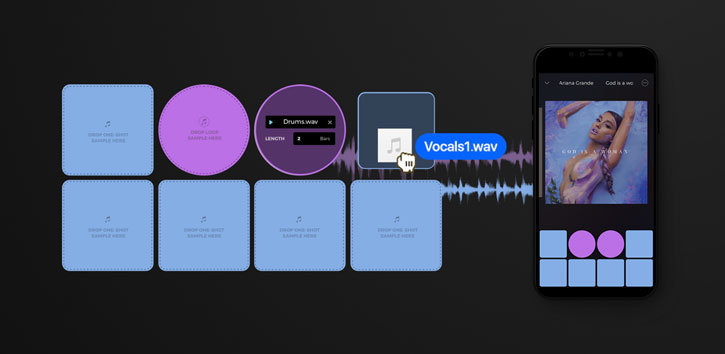
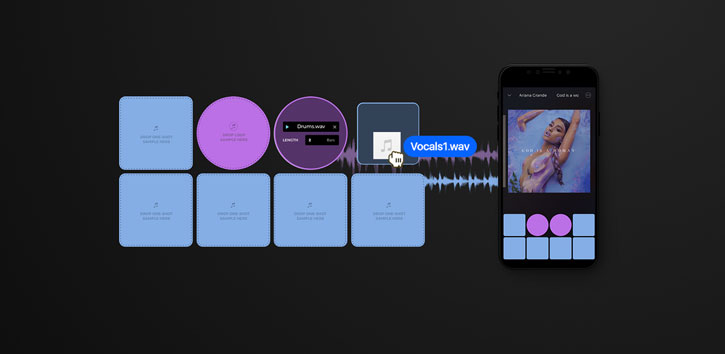
reworked some jammer mocks

Changed region(s): [[0.0607, 0.1243, 0.9103, 0.839]]

diff --git a/index.html b/index.html
@@ -55,7 +55,7 @@
         <div id="description">
           <p class="home_description">Casey Marie Crowe</p>
           <p class="home_biline"><i>Product Designer</i></p>
-          <p class="bio">I help companies build quality software and strong visual identities.</p>
+          <p class="bio">I build quality software and strong brand identities.</p>
           <p class="subheader">Skills:</p>
           <p class="work_tags">design</p>
           <p class="work_tags">UX</p>
@@ -81,32 +81,32 @@
         </br>
         </br>
         <p class="subheader">Work & Experience</p>
-        <div class="work">
+        <div class="work jammer_section">
           <img class="logo_header" src="images/work/digital_products/jammer_small.svg"/>
           <div class="work_info">
             <p class="work_title"><a target="_blank" class="clickable js-animate-color" href="https://www.jammerapp.com">Jammer / Keezy Corp.</a></p>
             <p class="work_description">Lead Product Designer 2018 - 2019</p>
             <p class="work_description">Jammer is a mobile music platform with a big innovation: songs are no longer fixed tracks, but interactive experiences that you can play, remix, record and share. Their flagship app allowed users to play songs like an instrument, with each button triggering parts of the song. My time there included helping the company continue to ship new features for their iOS app, as well as creating a new Artist Portal and Jammer Board Maker for users. On top of product design, I also helped other departments with their needs such as branding and marketing collateral for new music releases and promotions. Jammer featured music by major label artists such as Ariana Grande, Kanye West, Chance the Rapper, and Justin Bieber.</p>
             <p class="work_tags">Product Design</p>
+            <p class="work_tags">Product Strategy</p>
             <p class="work_tags">Art Direction & Branding</p>
-            <p class="work_tags">Print Production</p>
           </div>
           <img class="work_image image_sets" src="images/work/digital_products/jammer_4.jpg" srcset="images/work/digital_products/jammer_4.jpg 1x, images/work/digital_products/jammer_4@2x.jpg 2x"/>
           <br/>
           <br/>
           <p class="subheader_b">Product Initiatives</p>
           <p class="work_description">Projects were mainly centered around early stage user growth and retention. Some projects I led were introducing a recording feature to the iOS apps, and a social graph that allowed users to connect with and browse their friend's shared recordings. Other smaller projects included improving the marketplace experience for purchasing Jammer Boards, and major usability updates to the search and browse UX.</p>
+          <img class="work_image image_sets" src="images/work/digital_products/jammer_11.jpg" srcset="images/work/digital_products/jammer_11.jpg 1x, images/work/digital_products/jammer_11@2x.jpg 2x"/>
           <img class="work_image image_sets" src="images/work/digital_products/jammer_1.jpg" srcset="images/work/digital_products/jammer_1.jpg 1x, images/work/digital_products/jammer_1@2x.jpg 2x"/>
           <img class="work_image image_sets" src="images/work/digital_products/jammer_2.jpg" srcset="images/work/digital_products/jammer_2.jpg 1x, images/work/digital_products/jammer_2@2x.jpg 2x"/>
-          <img class="work_image image_sets" src="images/work/digital_products/jammer_5.jpg" srcset="images/work/digital_products/jammer_5.jpg 1x, images/work/digital_products/jammer_5@2x.jpg 2x"/>
-          <img class="work_image image_sets" src="images/work/digital_products/jammer_10.jpg" srcset="images/work/digital_products/jammer_10.jpg 1x, images/work/digital_products/jammer_10@2x.jpg 2x"/>
           <p class="subheader_b">Jammer Studio / Artist Portal:</p>
           <p class="work_description">Another big problem to solve was getting more music on Jammer.  I led efforts to research and build a consumer facing Artist Portal–a web and mobile product that would allow musicians to make and publish their own Jammer Boards (a process that was initially done as a white glove service.) We tested extensively with artists already on the platform as well as new users. A big challenge here was to meet all the techincal features pro artists wanted, while also making it incredibly easy for amateur musicians to use.</p>
-          <img class="work_image image_sets" src="images/work/digital_products/jammer_6.jpg" srcset="images/work/digital_products/jammer_6.jpg 1x, images/work/digital_products/jammer_6@2x.jpg 2x"/>
-          <img class="work_image image_sets" src="images/work/digital_products/jammer_9.jpg" srcset="images/work/digital_products/jammer_9.jpg 1x, images/work/digital_products/jammer_9@2x.jpg 2x"/>
+          <img class="work_image image_sets_no_margins" src="images/work/digital_products/jammer_5.jpg" srcset="images/work/digital_products/jammer_5.jpg 1x, images/work/digital_products/jammer_5@2x.jpg 2x"/>
+          <img class="work_image image_sets_no_margins" src="images/work/digital_products/jammer_10.jpg" srcset="images/work/digital_products/jammer_10.jpg 1x, images/work/digital_products/jammer_10@2x.jpg 2x"/>
+          <img class="work_image image_sets_no_margins" src="images/work/digital_products/jammer_6.jpg" srcset="images/work/digital_products/jammer_6.jpg 1x, images/work/digital_products/jammer_6@2x.jpg 2x"/>
           <img class="work_image image_sets" src="images/work/digital_products/jammer_8.jpg" srcset="images/work/digital_products/jammer_8.jpg 1x, images/work/digital_products/jammer_8@2x.jpg 2x"/>
         </div>
-        <div class="work">
+        <div class="work kiyo_section">
           <img class="logo_header" src="images/work/digital_products/kiyo_small.svg"/>
           <div class="work_info">
             <p class="work_title"><a target="_blank" class="clickable js-animate-color" href="https://www.producthunt.com/posts/kiyo">Kiyo / List App</a></p>
@@ -119,13 +119,10 @@
           <img class="work_image image_sets" src="images/work/digital_products/kiyo_3.jpg" srcset="images/work/digital_products/kiyo_3.jpg 1x, images/work/digital_products/kiyo_3@2x.jpg 2x"/>
           <img class="work_image image_sets" src="images/work/digital_products/kiyo_8.jpg" srcset="images/work/digital_products/kiyo_8.jpg 1x, images/work/digital_products/kiyo_8@2x.jpg 2x"/>
           <img class="work_image image_sets" src="images/work/digital_products/kiyo_1.jpg" srcset="images/work/digital_products/kiyo_1.jpg 1x, images/work/digital_products/kiyo_1@2x.jpg 2x"/>
-          <img class="work_image image_sets" src="images/work/digital_products/kiyo_2.jpg" srcset="images/work/digital_products/kiyo_2.jpg 1x, images/work/digital_products/kiyo_2@2x.jpg 2x"/>
-          <img class="work_image image_sets" src="images/work/digital_products/kiyo_5.jpg" srcset="images/work/digital_products/kiyo_5.jpg 1x, images/work/digital_products/kiyo_5@2x.jpg 2x"/>
           <img class="work_image image_sets" src="images/work/digital_products/kiyo_4.jpg" srcset="images/work/digital_products/kiyo_4.jpg 1x, images/work/digital_products/kiyo_4@2x.jpg 2x"/>
           <img class="work_image image_sets" src="images/work/digital_products/kiyo_7.jpg" srcset="images/work/digital_products/kiyo_7.jpg 1x, images/work/digital_products/kiyo_7@2x.jpg 2x"/>
-          <img class="work_image image_sets" src="images/work/digital_products/kiyo_6.jpg" srcset="images/work/digital_products/kiyo_6.jpg 1x, images/work/digital_products/kiyo_6@2x.jpg 2x"/>
         </div>
-        <div class="work">
+        <div class="work fundera_section">
           <img class="logo_header" src="images/work/digital_products/fundera_small.svg"/>
           <div class="work_info">
             <p class="work_title"><a target="_blank" class="clickable js-animate-color" href="https://www.fundera.com">Fundera</a></p>
@@ -141,7 +138,7 @@
           <img class="work_image image_sets" src="images/work/digital_products/fundera_3.jpg" srcset="images/work/digital_products/fundera_3.jpg 1x, images/work/digital_products/fundera_3@2x.jpg 2x"/>
           <img class="work_image image_sets" src="images/work/digital_products/fundera_4.jpg" srcset="images/work/digital_products/fundera_4.jpg 1x, images/work/digital_products/fundera_4@2x.jpg 2x"/>
         </div>
-        <div class="work">
+        <div class="work groupme_section">
           <img class="logo_header" src="images/work/digital_products/groupme_small.svg"/>
           <div class="work_info">
             <p class="work_title"><a target="_blank" class="clickable js-animate-color" href="https://www.groupme.com">GroupMe</a></p>
@@ -156,7 +153,7 @@
           <img class="work_image image_sets" src="images/work/digital_products/groupme_1.jpg" srcset="images/work/digital_products/groupme_1.jpg 1x, images/work/digital_products/groupme_1@2x.jpg 2x"/>
           <img class="work_image image_sets" src="images/work/digital_products/groupme_3.jpg" srcset="images/work/digital_products/groupme_3.jpg 1x, images/work/digital_products/groupme_3@2x.jpg 2x"/>
         </div>
-        <div class="work">
+        <div class="work skype_section">
           <img class="logo_header" src="images/work/digital_products/skype_small.png"/>
           <div class="work_info">
             <p class="work_title"><a target="_blank" class="clickable js-animate-color" href="https://skype.com">Skype</a></p>
@@ -168,7 +165,7 @@
           <img class="work_image image_sets" src="images/work/digital_products/skype_1.jpg" srcset="images/work/digital_products/skype_1.jpg 1x, images/work/digital_products/skype_1@2x.jpg 2x"/>
           <img class="work_image image_sets" src="images/work/digital_products/skype_2.jpg" srcset="images/work/digital_products/skype_2.jpg 1x, images/work/digital_products/skype_2@2x.jpg 2x"/>
         </div>
-        <div class="work">
+        <div class="work experiences_section">
           <img class="logo_header experiences_small" src="images/work/digital_products/experiences_small.png" srcset="images/work/digital_products/experiences_small.png 1x, images/work/digital_products/experiences_small@2x.png 2x"/>
           <div class="work_info">
             <p class="work_title"><a target="_blank" class="clickable js-animate-color" href="https://techcrunch.com/2012/07/10/groupme-branches-out-into-group-buying-launches-new-experiences-service-into-beta/">Experiences by GroupMe</a></p>
@@ -183,7 +180,7 @@
           <img class="work_image image_sets" src="images/work/digital_products/experiences_2.jpg" srcset="images/work/digital_products/experiences_2.jpg 1x, images/work/digital_products/experiences_2@2x.jpg 2x"/>
           <img class="work_image image_sets" src="images/work/digital_products/experiences_5.jpg" srcset="images/work/digital_products/experiences_5.jpg 1x, images/work/digital_products/experiences_5@2x.jpg 2x"/>
         </div>
-        <div class="work">
+        <div class="work collegehumor_section">
           <img class="logo_header" src="images/work/digital_products/ch_small.svg"/>
           <div class="work_info">
             <p class="work_title"><a target="_blank" class="clickable js-animate-color" href="https://www.collegehumor.com">CollegeHumor</a></p>
@@ -241,8 +238,6 @@
           <img class="work_image image_sets" src="images/work/digital_products/kiyo_3.jpg" srcset="images/work/digital_products/kiyo_3.jpg 1x, images/work/digital_products/kiyo_3@2x.jpg 2x"/>
           <img class="work_image image_sets" src="images/work/digital_products/kiyo_8.jpg" srcset="images/work/digital_products/kiyo_8.jpg 1x, images/work/digital_products/kiyo_8@2x.jpg 2x"/>
           <img class="work_image image_sets" src="images/work/digital_products/kiyo_1.jpg" srcset="images/work/digital_products/kiyo_1.jpg 1x, images/work/digital_products/kiyo_1@2x.jpg 2x"/>
-          <img class="work_image image_sets" src="images/work/digital_products/kiyo_2.jpg" srcset="images/work/digital_products/kiyo_2.jpg 1x, images/work/digital_products/kiyo_2@2x.jpg 2x"/>
-          <img class="work_image image_sets" src="images/work/digital_products/kiyo_5.jpg" srcset="images/work/digital_products/kiyo_5.jpg 1x, images/work/digital_products/kiyo_5@2x.jpg 2x"/>
           <img class="work_image image_sets" src="images/work/digital_products/kiyo_4.jpg" srcset="images/work/digital_products/kiyo_4.jpg 1x, images/work/digital_products/kiyo_4@2x.jpg 2x"/>
           <img class="work_image image_sets" src="images/work/digital_products/kiyo_7.jpg" srcset="images/work/digital_products/kiyo_7.jpg 1x, images/work/digital_products/kiyo_7@2x.jpg 2x"/>
           <img class="work_image image_sets" src="images/work/digital_products/kiyo_6.jpg" srcset="images/work/digital_products/kiyo_6.jpg 1x, images/work/digital_products/kiyo_6@2x.jpg 2x"/>

diff --git a/stylesheet.css b/stylesheet.css
@@ -246,7 +246,7 @@ p.subheader_b{
   margin-bottom: 0;
 }
 .image_sets {
-  margin: 50px 0 0px 0;
+  margin:40px 0 0px 0;
 }
 .brand_image {
   margin: 5px 0;
@@ -419,6 +419,9 @@ p#copywrite {
 
 /* Desktop Styles */
 @media all and (min-width: 1090px){
+  .image_sets_no_margins {
+    margin:10px 0 0px 0;
+  }
   #regular_nav a:hover{
     text-decoration: underline;
     display: block;
